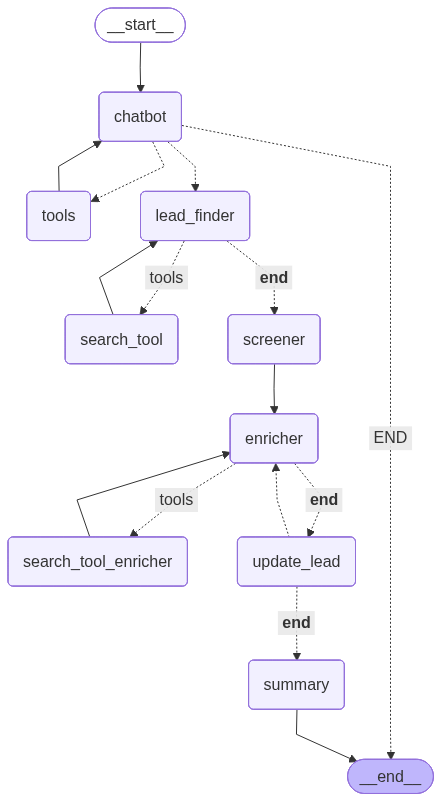
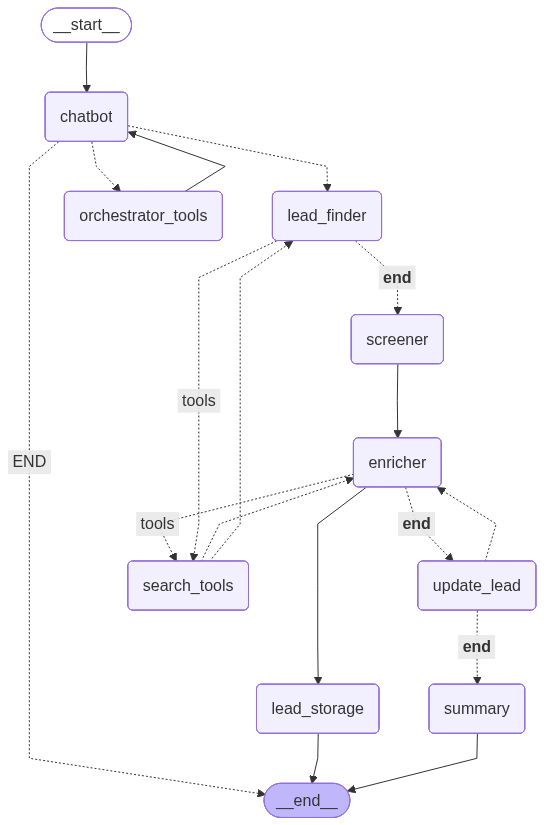
adding lead storage node - Now the workflow have a step to store leads in a vector database

diff --git a/src/application/agents/lead_storage_agent.py b/src/application/agents/lead_storage_agent.py
@@ -1,90 +1,49 @@
-from typing import List, Dict, Any
-
-from langchain_core.messages import SystemMessage
-from langchain_openai import ChatOpenAI
-
+import asyncio
 from ..schema.lead import Lead
 from ..schema.state import State
-from ...domain.interfaces.lead_repository import LeadRepository
+from ...infrastructure.knowledge_base.vectordb.config import VectorDBSettings
+from ...infrastructure.knowledge_base.vectordb.lead_storage import QDrantLeadStorage
+from ...infrastructure.knowledge_base.vectordb.embedding_service import LeadEmbeddingService
 
 
-def create_lead_storage_node(llm: ChatOpenAI, lead_repository: LeadRepository):
-    """Returns an agent node function that handles lead storage and similarity checking.
+def create_lead_storage_node():
+    """Returns a sync node that runs async Qdrant operations."""
 
-    Args:
-        llm: Language model to use
-        lead_repository: Repository for storing and retrieving leads
-    """
-
-    async def process_leads(leads: List[Lead]) -> List[Dict[str, Any]]:
-        """Process leads by storing them and finding similar ones.
-
-        Args:
-            leads: List of leads to process
-
-        Returns:
-            List of processed leads with storage and similarity information
-        """
-        processed_leads = []
-        for lead in leads:
-            # Store the lead
-            lead_id = await lead_repository.store_lead(lead)
-            
-            # Check for similar leads
-            similar_leads = await lead_repository.find_similar_leads(lead, limit=2)
-            
-            # Add similarity info
-            similar_info = ""
-            if similar_leads:
-                similar_companies = [l.company for l in similar_leads if l.company != lead.company]
-                if similar_companies:
-                    similar_info = f" (Similar to: {', '.join(similar_companies)})"
-            
-            processed_leads.append({
-                "id": lead_id,
-                "lead": lead.model_dump(),
-                "similar_info": similar_info
-            })
+    def node(state: State) -> dict:  # Sync function
+        """Process leads and store them in vector database."""
         
-        return processed_leads
-
-    async def node(state: State) -> dict:
-        """Process leads from state and store them with similarity checking.
-
-        Args:
-            state: Current state containing leads to process
-
-        Returns:
-            Updated state with processed leads and similarity information
-        """
-        # Get leads from state
-        leads = [Lead(**lead) for lead in state.leads] if hasattr(state, "leads") else []
+        # Define async logic
+        async def store_leads_async():
+            # Initialize services
+            settings = VectorDBSettings(
+                host="localhost",
+                port=6333,
+                collection_name="leads-collection",
+                distance_metric="Cosine",
+                vector_size=64,
+                timeout=10
+            )
+            
+            embedding_service = LeadEmbeddingService()
+            lead_storage = QDrantLeadStorage(settings, embedding_service)
+            
+            leads = state.leads
+            for lead in leads:
+                print(f"Storing lead: {lead}")
+                await lead_storage.store_lead(lead)
         
-        if not leads:
-            return {
-                "messages": [
-                    {"role": "assistant", "content": "No leads to process"}
-                ]
-            }
-
-        # Process leads
-        processed_leads = await process_leads(leads)
-
-        # Create response message with similarity information
-        lead_messages = []
-        for pl in processed_leads:
-            company = pl["lead"]["company"]
-            similar_info = pl["similar_info"]
-            lead_messages.append(f"- {company}{similar_info}")
-
-        return {
-            "leads": [pl["lead"] for pl in processed_leads],
-            "messages": [
-                {
-                    "role": "assistant",
-                    "content": "Processed leads:\n" + "\n".join(lead_messages)
-                }
-            ],
-        }
+        # Run async code in sync context
+        try:
+            print("Storing leads in vector database...")
+            asyncio.run(store_leads_async())
+        except RuntimeError:
+            # If event loop already running (e.g., in Gradio)
+            print("RuntimeError: Event loop already running. Applying nest_asyncio.")
+            import nest_asyncio
+            nest_asyncio.apply()
+            asyncio.run(store_leads_async())
+        
+        print("Leads stored in vector database.")
+        return {}
 
     return node

diff --git a/src/application/graphs/nodes.py b/src/application/graphs/nodes.py
@@ -6,6 +6,7 @@ from ..agents.lead_finder_agent import create_lead_finder_node
 from ..agents.lead_screener_agent import lead_screener_node
 from ..agents.data_enrichment_agent import create_enrichment_node, create_update_lead_node
 from ..agents.summary_agent import create_summary_node
+from ..agents.lead_storage_agent import create_lead_storage_node
 
 def register_nodes(
     graph: StateGraph,
@@ -32,3 +33,4 @@ def register_nodes(
     # Tool nodes - scoped by responsibility
     graph.add_node("orchestrator_tools", ToolNode(tools=orchestrator_tools))
     graph.add_node("search_tools", ToolNode(tools=search_tools))
+    graph.add_node("lead_storage", create_lead_storage_node())

diff --git a/src/application/graphs/edges.py b/src/application/graphs/edges.py
@@ -12,7 +12,9 @@ def register_edges(graph: StateGraph) -> None:
     graph.add_edge(START, "chatbot")
     graph.add_edge("orchestrator_tools", "chatbot")
     graph.add_edge("screener", "enricher")
+    graph.add_edge("enricher", "lead_storage")
     graph.add_edge("summary", END)
+    graph.add_edge("lead_storage", END)
 
     # Conditional edges from chatbot
     graph.add_conditional_edges(
